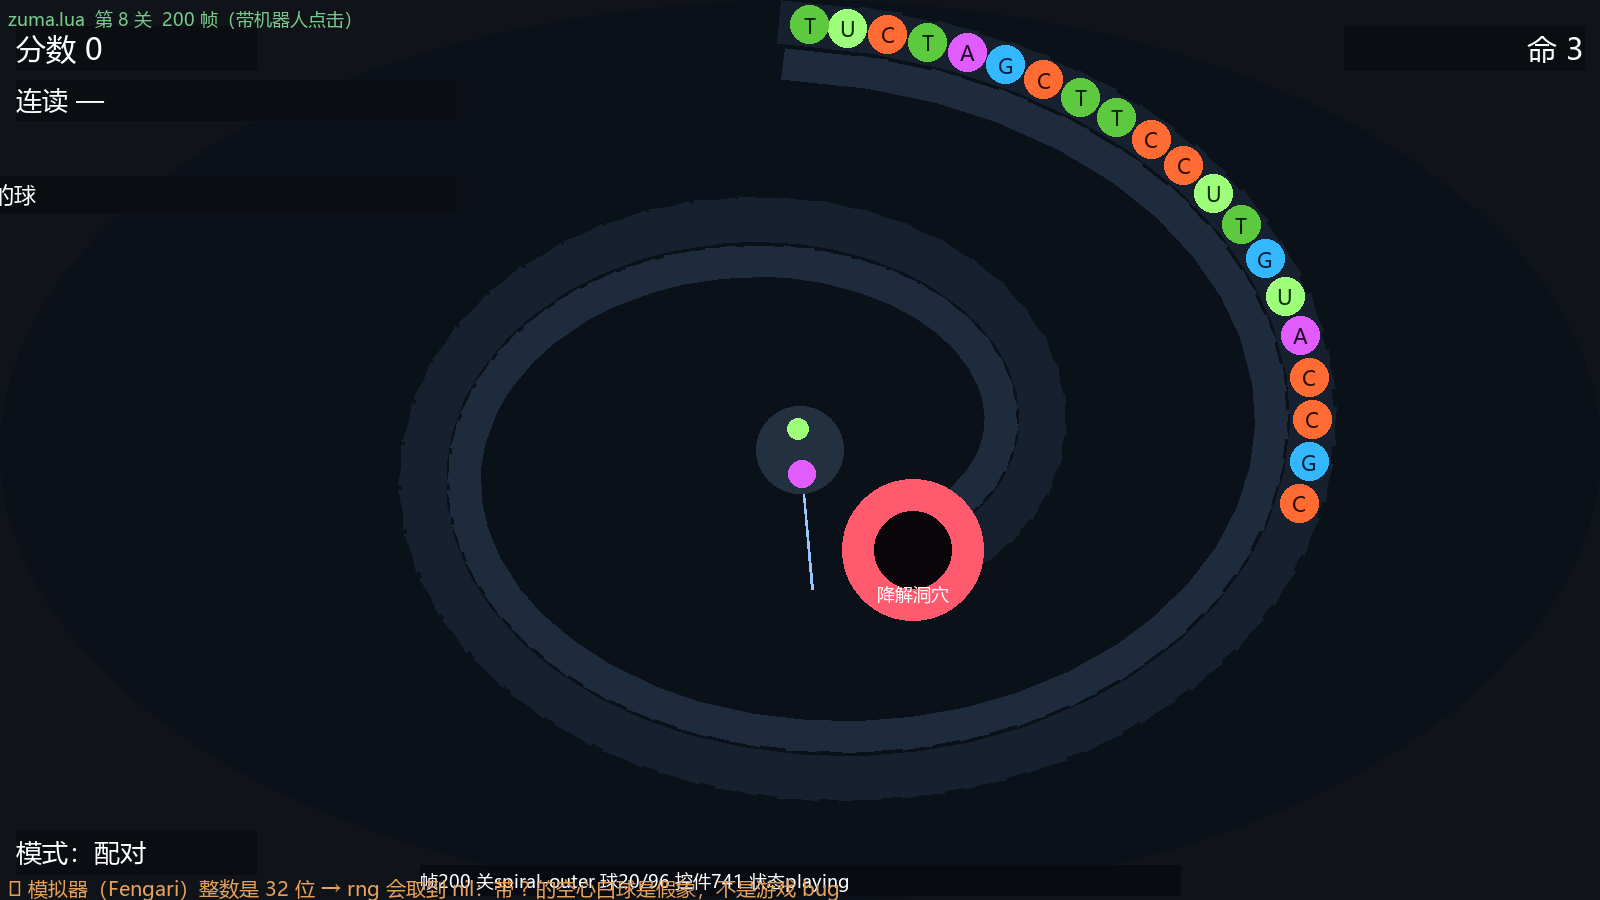
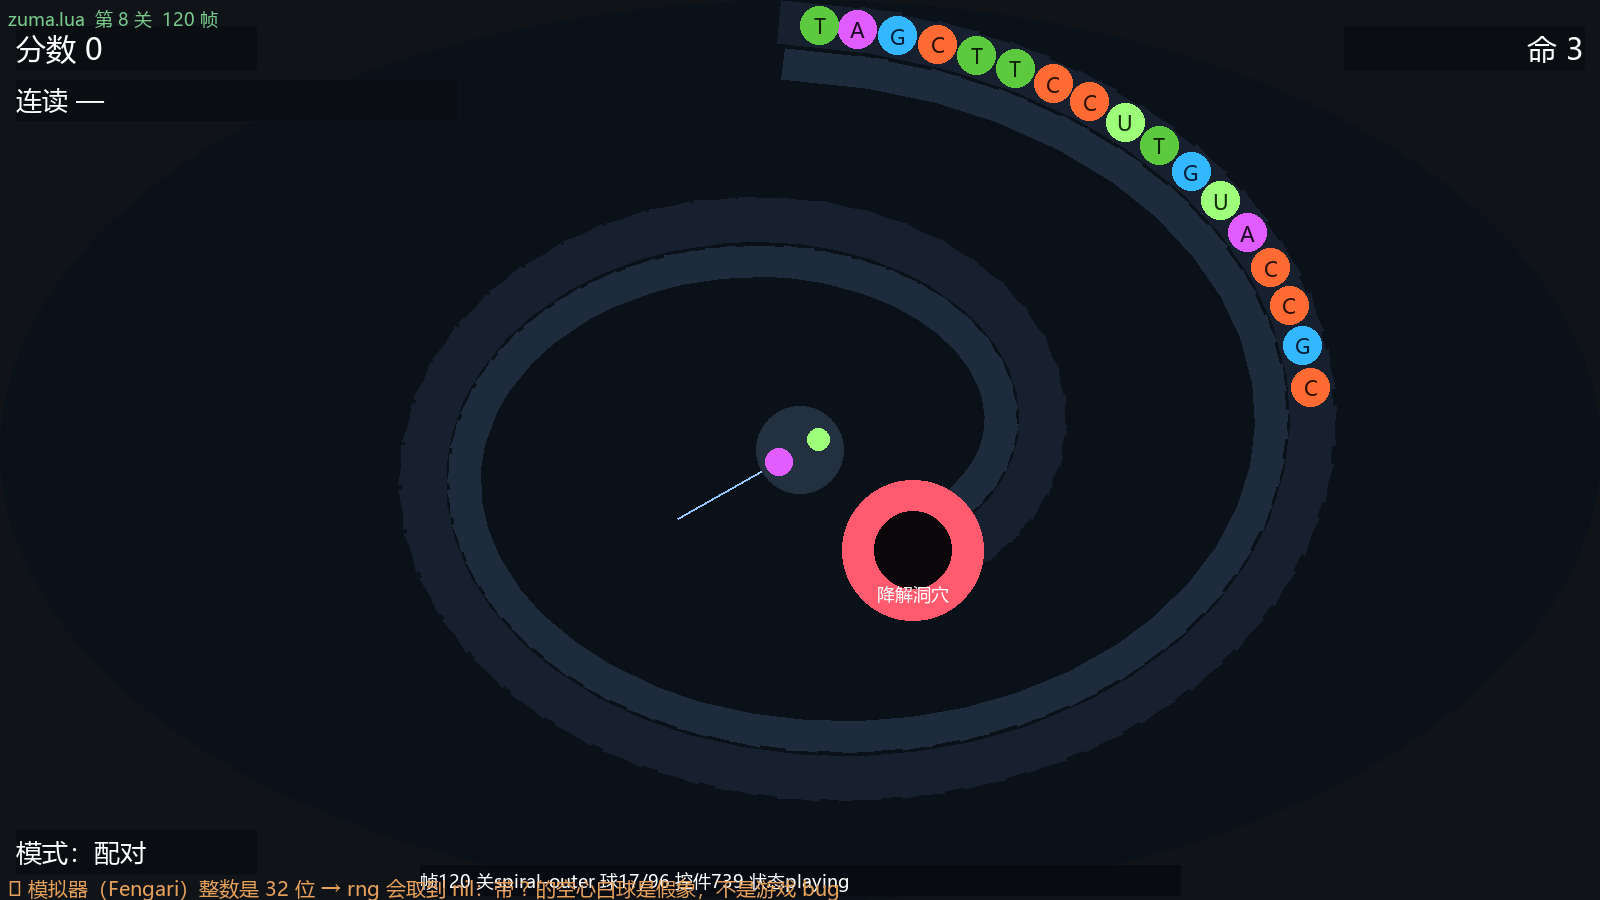
三张素材各就各位：实心圆 100002（球）/ 方块 100001（轨道·连线·瞄准线）/ 空心圆 100006（洞穴环）
用户报了编辑器里三张图的资产号，全部写成默认值（一个变量都不用填）：
- artImage = 100002  纯白实心圆 → 球面 / 光晕 / 核糖体本体 / 背板
- artBar   = 100001  纯白方块   → 轨道 / 配对连线 / 瞄准线（拉成长条；圆图拉长会鼓出来
                                  —— 用户反馈"轨道用圆有点难看"就是这个原因）
- artRing  = 100006  纯白空心圆 → 洞穴那几圈红环（洞口本来就是"环"，空心圆染红正好；
                                  实心圆得靠叠层+透明度装环，效果差一截）

实现：
- game.lua：DEFAULT_ART/DEFAULT_BAR/DEFAULT_RING 三个默认；artBar/artRing 支持脚本变量覆盖；
  启动日志一行报清三张图：`★ 素材：实心圆=100002 方块(轨道/连线)=100001 空心圆(洞穴)=100006`
- ui.lua：ui.artRing；洞穴光晕改用它（placeBead(..., ui.artRing)）
- 断言：默认三个值都在位 + 覆盖生效（test_prefabs 53 项）
- 手册 2.2 的"两张图"表扩成"三张图"，标清默认资产号

产物：zuma.lua 144,888 / zuma-pc.zip / manual.html 已重打包并同步（游戏目录 + 桌面）；
DOWNLOADS 已更新。验证：run-all 全部通过（Lua 侧 328 项），对拍零差异。

diff --git a/miliastra/pc/manual.html b/miliastra/pc/manual.html
@@ -181,15 +181,16 @@ http://10.176.136.109:8080/miliastra/out/zuma.lua &nbsp;（下载文件）</p>
     <tr><td><b>控件模板索引</b></td><td>大数字，如 <code>1073741852</code></td>
         <td>脚本变量 <code>ballPrefab</code> 等（而且脚本会自动认，不用填）</td></tr>
     <tr><td><b>资产号</b>（素材 id）</td><td>小数字，如 <code>100002</code></td>
-        <td><code>SetImage</code> 用 —— 脚本默认已经填好 <b>100002</b>（一张白圆图）</td></tr>
+        <td><code>SetImage</code> 用 —— 脚本三个默认值都填好了（见下表），<b>照默认做就什么都不用填</b></td></tr>
   </table>
     <b>需要两张图</b>（都可从素材库里找/自己传）：
   <table>
     <tr><th>用在哪</th><th>要什么形状</th><th>脚本变量</th></tr>
-    <tr><td>球面、光晕、核糖体、背板</td><td><b>纯白圆形</b></td><td><code>artImage=资产号</code>（默认 100002）</td></tr>
+    <tr><td>球面、光晕、核糖体、背板</td><td><b>纯白实心圆</b></td><td><code>artImage=资产号</code>（<b>默认 100002</b>）</td></tr>
     <tr><td>轨道 / 配对连线 / 瞄准线（拉成长条）</td>
-        <td><b>纯白正方形</b>（越小越好，1×1 或 8×8，<b>直角、无描边</b>；圆图拉长会鼓出来）</td>
-        <td><code>artBar=资产号</code>（不填就跟 <code>artImage</code> 一样）</td></tr>
+        <td><b>纯白正方形</b>（越小越好，直角、无描边；圆图拉长会鼓出来）</td>
+        <td><code>artBar=资产号</code>（<b>默认 100001</b>）</td></tr>
+    <tr><td>洞穴那几圈红环</td><td><b>纯白空心圆</b></td><td><code>artRing=资产号</code>（<b>默认 100006</b>）</td></tr>
   </table>
   换图就填脚本变量 <code>artImage=你的资产号</code>；想 5 种碱基各一张图就
   <code>art=A:资产号,U:…,G:…,C:…,T:…</code>。<br>

diff --git a/DOWNLOADS.md b/DOWNLOADS.md
@@ -16,11 +16,11 @@ https://github.com/ihamn/zuma
 
 ## 直链（在电脑浏览器里粘这一行就下）
 
-**① 游戏要用的包** — 63,881 字节
+**① 游戏要用的包** — 64,419 字节
 ```
 https://ghproxy.net/https://raw.githubusercontent.com/ihamn/zuma/main/miliastra/pc/zuma-pc.zip
 ```
-里面有 4 个文件：`zuma.lua`（143,986）、`hello.lua`（5,141）、`manual.html`（28,121）、`README.txt`（837）
+里面有 4 个文件：`zuma.lua`（144,888）、`hello.lua`（5,141）、`manual.html`（28,870）、`README.txt`（837）
 
 **② DSH 迁移包** — 18,714,097 字节（17.8 MB）
 ```
@@ -59,11 +59,11 @@ https://cdn.jsdelivr.net/gh/ihamn/zuma@main/
 
 | 文件 | 字节数 | 属性里显示约 | sha256 |
 |---|---|---|---|
[10 lines of base64/hex data omitted]
 

diff --git a/miliastra/README.md b/miliastra/README.md
@@ -145,9 +145,9 @@ Lua 脚本（挂在容器上）
 | 表现层 / 输入层 / 生命周期 | ✅ | `ui.lua` / `input.lua` / `game.lua` |
 | **表现层画全了**（轨道/字母/光晕/核糖体/瞄准线/配对连线/绑定小球/并入球/洞穴/冷却环/动效） | ✅ | 68 项断言 + 试玩截图（`out/sim-*.png`） |
 | **真机运行时契约** | ✅ | 5 条硬限制写进代码 + 假宿主强制 + 契约断言（见下节） |
-| 本地能跑一整关 | ✅ | 假宿主 **325 项断言**（含打包产物端到端） |
+| 本地能跑一整关 | ✅ | 假宿主 **328 项断言**（含打包产物端到端） |
 | 在客户端 Lua 运行时里真跑 | ✅ | 试玩台：740 个控件建出来、整关推进、可出图 |
-| 打包产物可直接上传 | ✅ ~117 KB，14 模块 | `out/zuma.lua`（143,986 字节） |
+| 打包产物可直接上传 | ✅ ~117 KB，14 模块 | `out/zuma.lua`（144,888 字节） |
 | **编辑器里跑起来** | ❌ **没做过** | 见 `docs/05` §10 M2 |
 
 **换句话说：代码侧已经写完并本地验证；剩下的是编辑器里的手工搭建 + 真机实测。**
